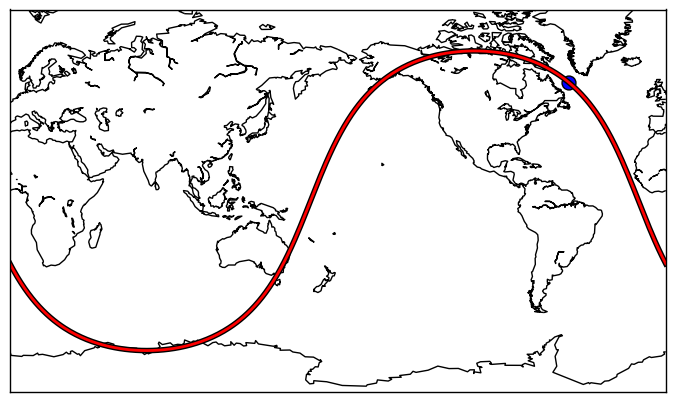
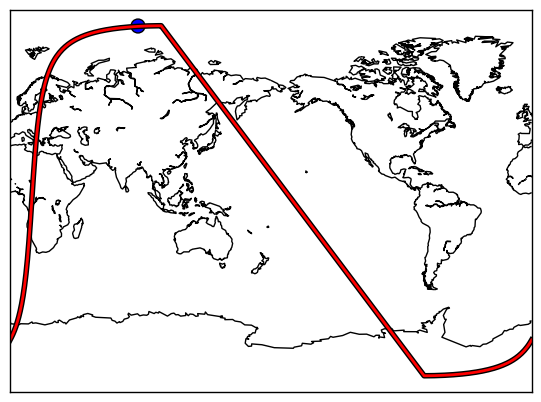
something is not right haha

diff --git a/getNearestBar.py b/getNearestBar.py
@@ -14,11 +14,12 @@ def declination(JD):
     return -23.45*np.cos(360./360.25*(JD+9))
 
 def getLat(lons,declination,h):
-    hourAngle = h/24.*2*np.pi -lons/180*np.pi
+    hourAngle = h/24.*2*np.pi +lons/180*np.pi
     x = np.sin(declination)/(np.sqrt((np.cos(declination)**2)*(np.cos(hourAngle)**2) + (np.sin(declination)**2)))
     y = np.cos(declination)*np.cos(hourAngle)/(np.sqrt((np.cos(declination)**2)*(np.cos(hourAngle)**2) + (np.sin(declination)**2)))
 
     a = np.arctan2(y,x)*180/np.pi
+    #a = np.arctan(-y/x)*180/np.pi
     a[np.where(a<-90)] += 180
     a[np.where(a>90)] -= 180
     return a
@@ -46,11 +47,13 @@ dists = haversine(lats,latHome,lons+180,lonHome)
 ind = np.where(dists == dists.min())[0][0]
 if makePlot:
     from mpl_toolkits.basemap import Basemap
-    m = Basemap(llcrnrlon=0,llcrnrlat=-80,urcrnrlon=360,urcrnrlat=80,projection='mill')
+    m = Basemap(llcrnrlon=0,llcrnrlat=-90,urcrnrlon=360,urcrnrlat=90,projection='mill')
     fig=pl.figure(figsize=(8,4.5))
     ax = fig.add_axes([0.05,0.05,0.9,0.85])
     m.drawcoastlines()
-    x, y = m(lons+180,lats)
+
+    slope = np.append(lats,lats[0])[1:]- np.insert(lats,0,lats[-1])[:-1]
+    x, y = m(lons[np.where(slope>0)]+180,lats[np.where(slope>0)])
     m.plot(x,y,lw=4,c='k')
     m.plot(x,y,lw=2,c='r')
     # get closest lat/lon
@@ -60,3 +63,4 @@ if makePlot:
     pl.show()
 
 print("The absolute closest lat/lon that is 5PM LST is:\n\tlat: %.6f\n\tlon: %.6f\nIt's %.3f km away!" % (lats[ind],lons[ind]-180,dists[ind]/1000.))
+
